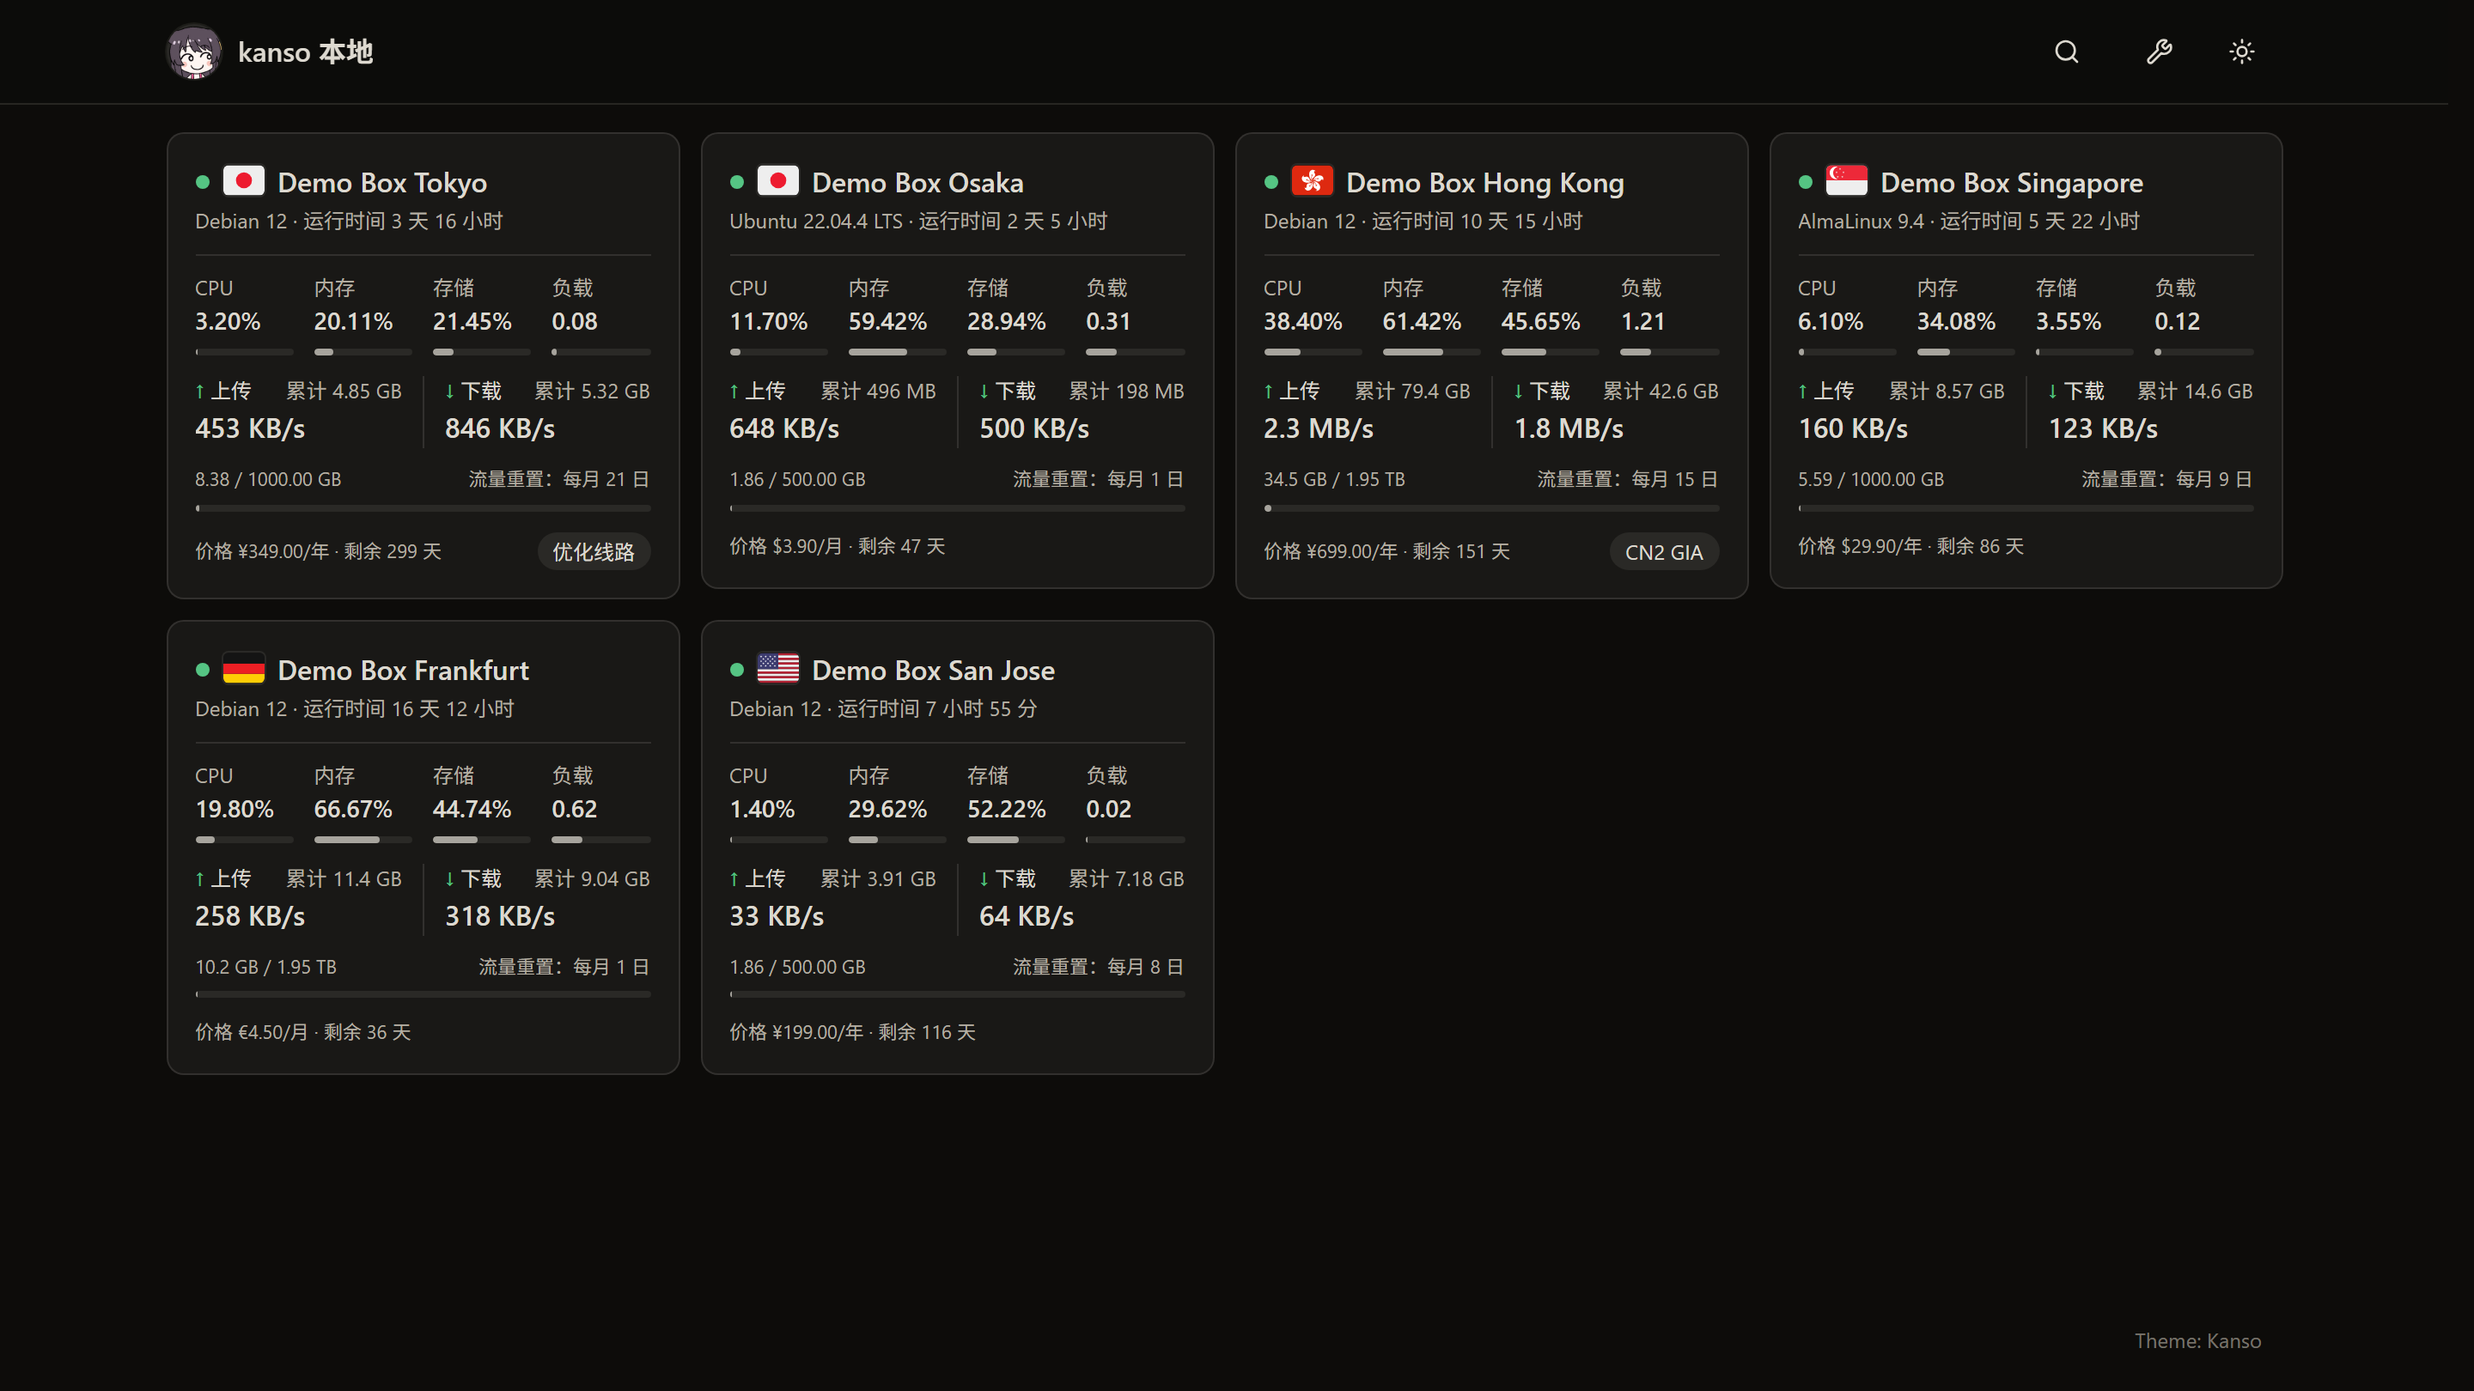
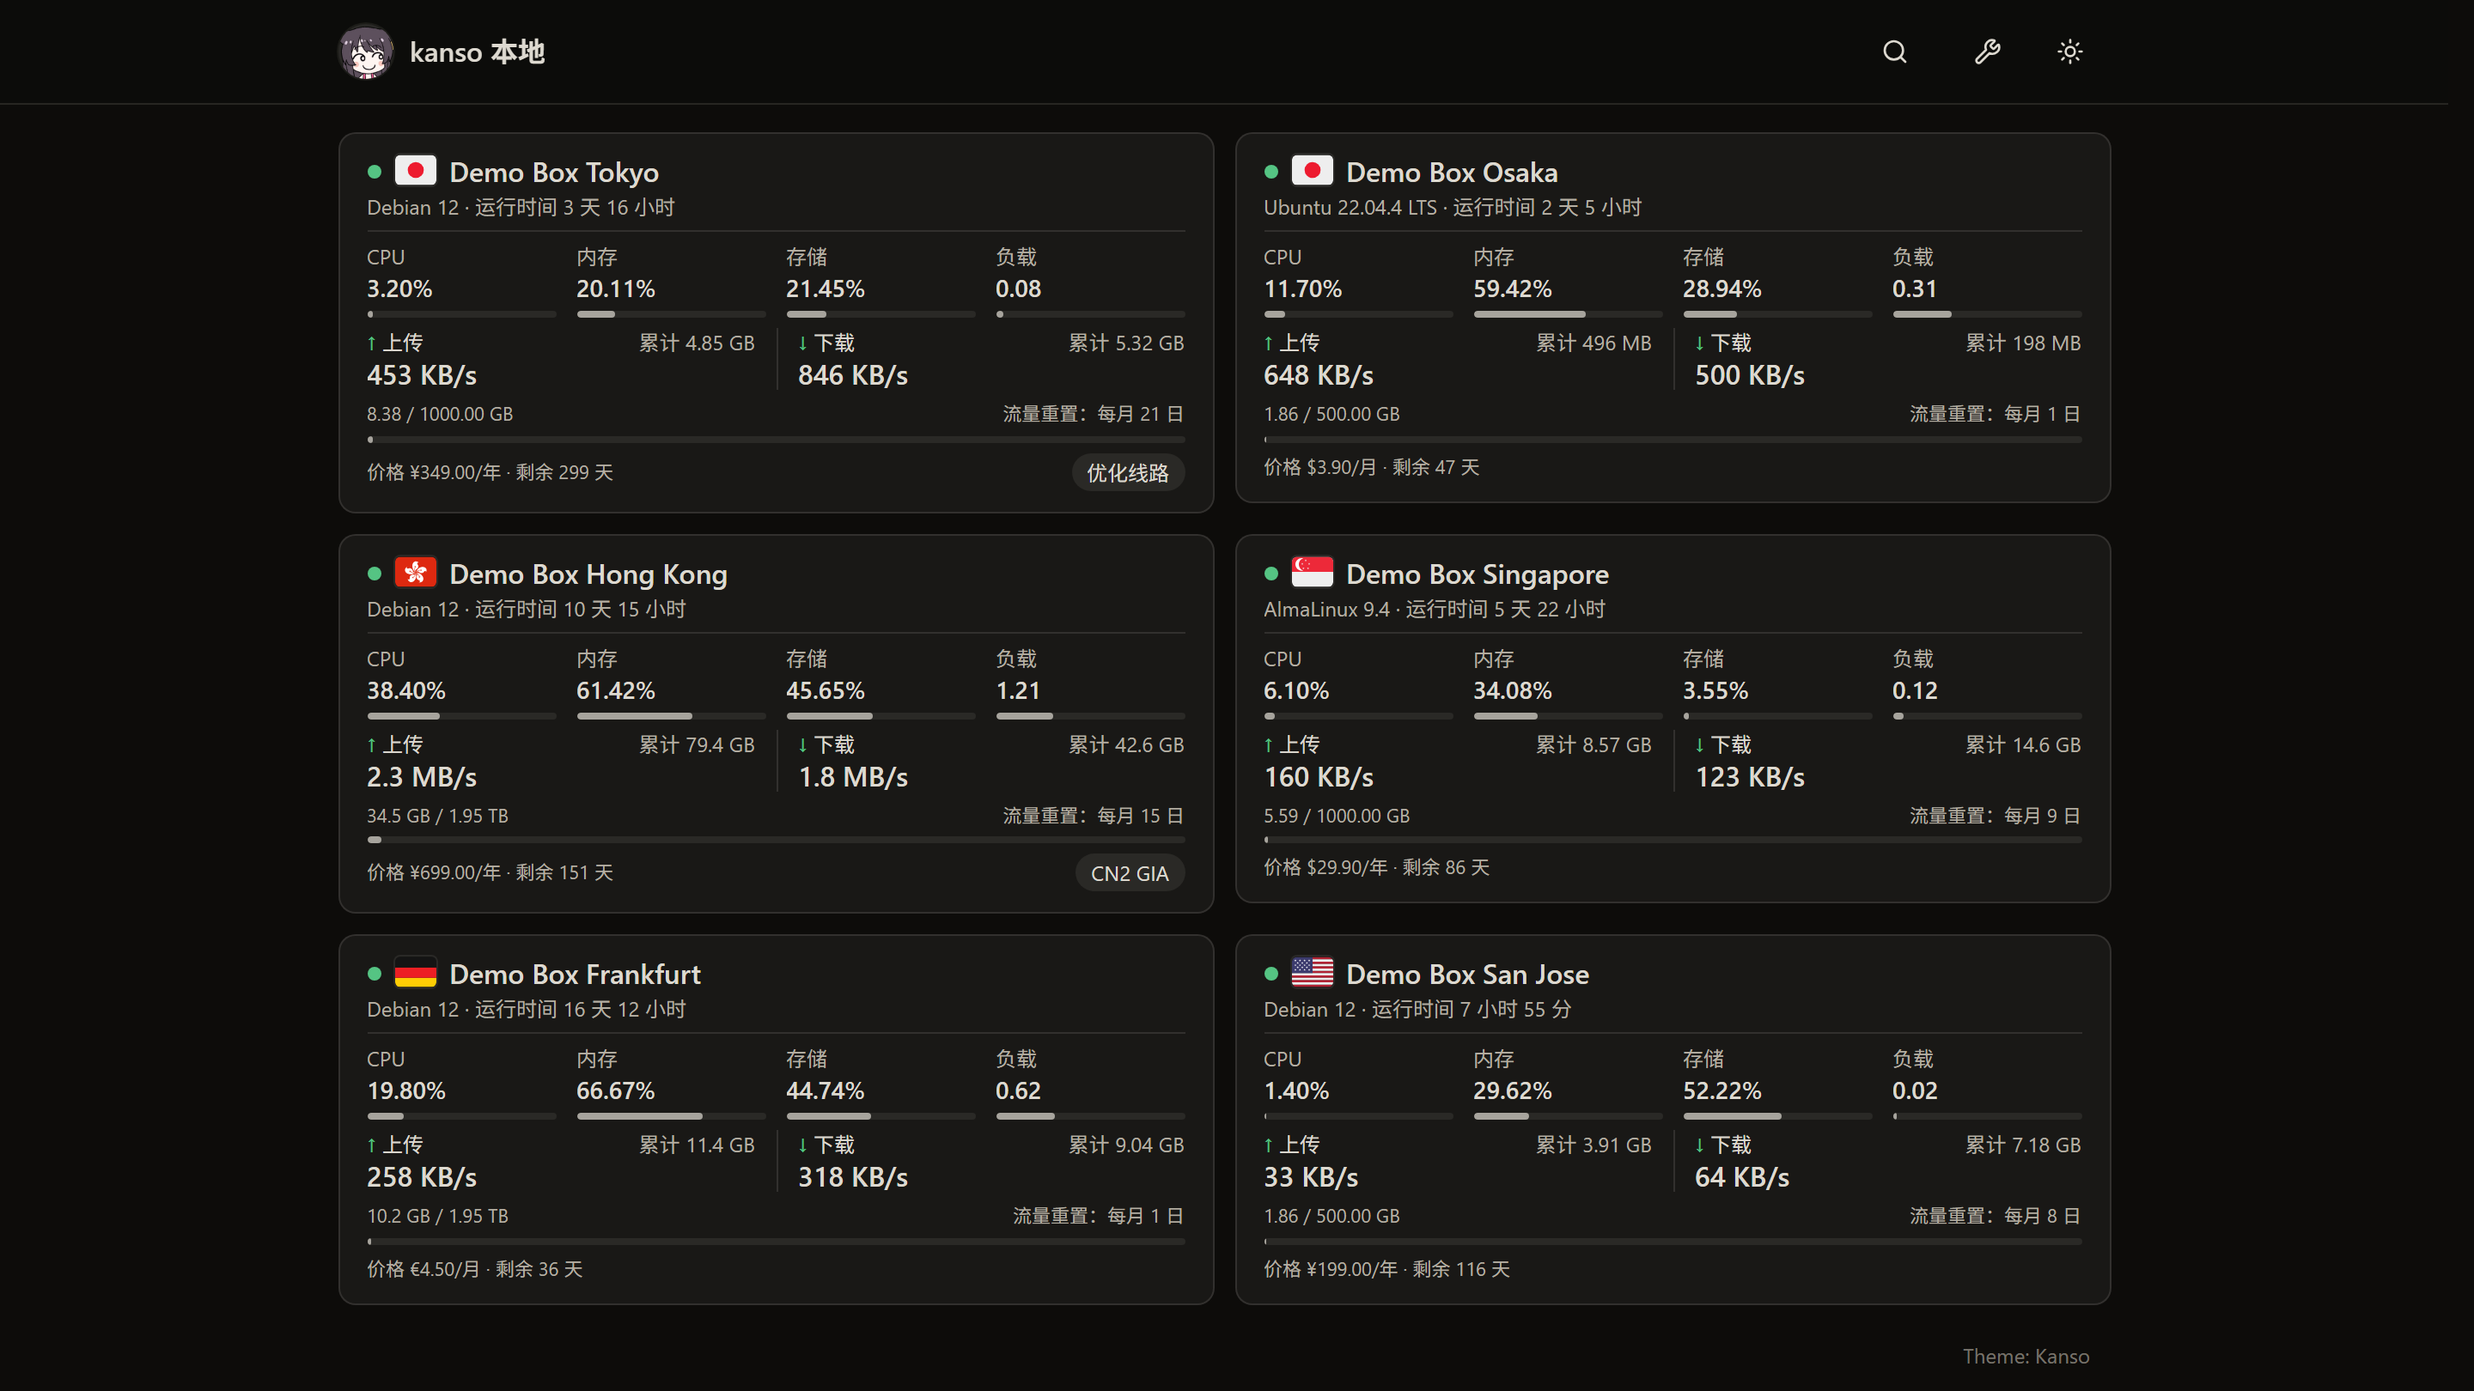
1.2.0：卡片长度与列数照参考站校准 —— 列表收成一行两张宽卡（768 起两列，容器 1280→1080），行距收到 6px 档、读数与速率行高 18px，卡片 510×216；护栏补两列/宽扁/窄屏单列三条断言（41/0），sweep 全绿；预览三件套重拍；注释与工具里的参考站只留泛称

diff --git a/src/components/NodeCard.tsx b/src/components/NodeCard.tsx
@@ -171,9 +171,9 @@ function trafficFoot(node: Node) {
 }
 
 /**
- * 列表里的那张卡片（本主题唯一的一档，2026-10-15 按站长给的参考站重排）。
+ * 列表里的那张卡片（本主题唯一的一档，2026-10-15 照站长给的参考站重排）。
  *
- * 从上到下六块：
+ * 从上到下六块（行距、字号按参考站校准过：整卡 ~510×214，那边是 508×209）：
  *   ① 身份行：状态点 + 旗子 + 名字（离线时右端一枚「已离线」徽章）；
  *   ② 一行灰字：系统 · 运行时间（四种处境的口径见 metaLine）；
  *   ③ 四个读数格：CPU / 内存 / 存储 / 负载（上面一条分隔线，见 Meter）；
@@ -218,7 +218,7 @@ export function NodeCard({ node, onOpen, onWarm, terms, selected }: {
       // data-selected 是「当前被键盘选中」的标记（护栏读它，不用去解析类名）。
       data-node-card={node.id}
       data-selected={selected ? "1" : undefined}
-      className={`min-w-0 cursor-pointer gap-0 p-4 transition-colors hover:border-foreground/25 ${selected ? "outline-2 outline-offset-1 outline-ring" : ""}`}
+      className={`min-w-0 cursor-pointer gap-0 px-4 py-3 transition-colors hover:border-foreground/25 ${selected ? "outline-2 outline-offset-1 outline-ring" : ""}`}
       role="button"
       tabIndex={0}
       onKeyDown={(e) => (e.key === "Enter" || e.key === " ") && (e.preventDefault(), onOpen())}
@@ -234,7 +234,7 @@ export function NodeCard({ node, onOpen, onWarm, terms, selected }: {
           className={"size-2 shrink-0 rounded-full " + (on ? "bg-ok" : "bg-down")}
         />
         <Country node={node} />
-        <h3 className="min-w-0 flex-1 truncate font-semibold"><TextHighlight text={node.name} terms={terms} /></h3>
+        <h3 className="min-w-0 flex-1 truncate font-semibold leading-5"><TextHighlight text={node.name} terms={terms} /></h3>
         {/* 徽章只给「接入过、现在掉线」的机器：从未接入的卡片下面那行说明已经说清了，
             连上但还没上报的更不该被盖上「已离线」。 */}
         {deployed(node) && !node.online && (
@@ -253,7 +253,7 @@ export function NodeCard({ node, onOpen, onWarm, terms, selected }: {
           {/* ③ 四个读数格：参考站的口径是「表名 / 读数 / 条」一列到底，上面一条分隔线把头部
               与读数区隔开。格子里只剩百分比：核数、已用 / 总量挪进各自的悬停说明（Meter 的
               title），整页详情里仍然写全。 */}
-          <div data-metrics="" className="mt-3 grid grid-cols-4 gap-x-3 border-t pt-2.5">
+          <div data-metrics="" className="mt-1.5 grid grid-cols-4 gap-x-3 border-t pt-1.5">
             <Meter
               label="CPU"
               title={`${node.cpu_cores} 核`}
@@ -285,32 +285,32 @@ export function NodeCard({ node, onOpen, onWarm, terms, selected }: {
               速率是这一块的重心（大字加粗）；累计总量弱化成灰字跟在标签那一行的右端。
               箭头保留 ↑ / ↓（可以整段复制），颜色用 --ok —— 卡片上唯一的彩色笔画。
               `data-net` 是给护栏认这一块用的锚点。 */}
-          <div data-net="row" className="mt-3 grid grid-cols-2">
+          <div data-net="row" className="mt-1.5 grid grid-cols-2">
             <div className="min-w-0 pr-3">
               <div className="flex items-baseline justify-between gap-2 text-xs">
                 <span className="shrink-0"><span className="text-ok">↑</span> 上传</span>
                 <span className="tnum min-w-0 truncate text-muted-foreground">累计 {bytes(node.total_tx)}</span>
               </div>
-              <div className="tnum mt-0.5 truncate text-base font-semibold">{m ? rate(m.net_tx) : "—"}</div>
+              <div className="tnum mt-0.5 truncate text-base font-semibold leading-[18px]">{m ? rate(m.net_tx) : "—"}</div>
             </div>
             <div className="min-w-0 border-l pl-3">
               <div className="flex items-baseline justify-between gap-2 text-xs">
                 <span className="shrink-0"><span className="text-ok">↓</span> 下载</span>
                 <span className="tnum min-w-0 truncate text-muted-foreground">累计 {bytes(node.total_rx)}</span>
               </div>
-              <div className="tnum mt-0.5 truncate text-base font-semibold">{m ? rate(m.net_rx) : "—"}</div>
+              <div className="tnum mt-0.5 truncate text-base font-semibold leading-[18px]">{m ? rate(m.net_rx) : "—"}</div>
             </div>
           </div>
 
           {/* ⑤ 总流量：数字行（左：已用 / 额度，右：重置日；没有额度就写 N/A，与参考站一致），
               再下面一条全宽进度条 —— 用量按套餐的计流量方式算（trafficFoot / monthUsage）。 */}
-          <div className="tnum mt-2.5 flex items-baseline justify-between gap-2 text-[11px] text-muted-foreground">
+          <div className="tnum mt-1.5 flex items-baseline justify-between gap-2 text-[11px] text-muted-foreground">
             <span className="min-w-0 truncate">{trafficFoot(node)}</span>
             <span className="shrink-0">
               流量重置：{node.traffic_limit > 0 ? `每月 ${node.traffic_reset_day} 日` : "N/A"}
             </span>
           </div>
-          <div className="mt-1.5 h-1 w-full overflow-hidden rounded-full bg-muted">
+          <div className="mt-1 h-1 w-full overflow-hidden rounded-full bg-muted">
             <div
               className="h-full rounded-full bg-foreground/70 transition-[width] duration-500"
               style={{ width: `${node.traffic_limit > 0 ? percent(monthUsage(node), node.traffic_limit) : 0}%` }}
@@ -320,7 +320,7 @@ export function NodeCard({ node, onOpen, onWarm, terms, selected }: {
           {/* ⑥ 底注：价格 / 到期在左、备注小卡片在右；两截都没有就整行不占位。
               `data-remark="card"` 是护栏的锚点（与整页详情那一块的 `data-remark-block` 区分开）。 */}
           {(note || chips.length > 0) && (
-            <div className="mt-3 flex min-w-0 items-center justify-between gap-2">
+            <div className="mt-1.5 flex min-w-0 items-center justify-between gap-2">
               <span className="tnum min-w-0 truncate text-[11px] leading-4 text-muted-foreground">{note}</span>
               {chips.length > 0 && (
                 <span data-remark="card" className="flex min-w-0 shrink items-center justify-end gap-1">

diff --git a/src/App.tsx b/src/App.tsx
@@ -464,7 +464,7 @@ export default function App() {
             「**站名优先展开、图标自己滑**」分：站名那格 max-w-[55%]（正常名字完整显示，
             只有长到离谱才轮到 truncate），搜索钉在它右边，剩下几枚图标装进一条能横向滑动的
             条带里 —— 与下面那行分组标签同一套做法：装不下就滑，不裁字、也不把整页撑宽。 */}
-        <div className="mx-auto flex max-w-[1280px] items-center gap-2 px-4 py-3 sm:gap-3 sm:px-6">
+        <div className="mx-auto flex max-w-[1080px] items-center gap-2 px-4 py-3 sm:gap-3 sm:px-6">
           {/* The site name is the way back to the list, so a node page needs
               no back button of its own. A 32px disc of the site's icon leads
               it — `/favicon.svg` is the one address that answers with the
@@ -530,7 +530,7 @@ export default function App() {
         )}
       </header>
 
-      <main className="mx-auto w-full max-w-[1280px] flex-1 space-y-5 px-4 py-4 sm:px-6">
+      <main className="mx-auto w-full max-w-[1080px] flex-1 space-y-5 px-4 py-4 sm:px-6">
         {error && <p className="text-sm text-destructive">{error}</p>}
 
         {open !== null ? (
@@ -549,10 +549,11 @@ export default function App() {
         ) : !nodes ? (
           // 还在等节点列表：骨架与卡片网格同一版式。
           // 高度跟着卡片来 —— 2026-10-15 卡片改成参考站那一套（身份行 + 系统行 + 四个读数格 +
-          // 上传下载 + 总流量 + 底注）之后是 266px（1440 视口四列，见 tools/verify_card_form）。
-          <div className="grid gap-3 sm:grid-cols-2 lg:grid-cols-3 xl:grid-cols-4">
+          // 上传下载 + 总流量 + 底注）、并把行距收到参考站那一档之后是 231px（1440 视口两列，
+          // 见 tools/verify_card_form）。
+          <div className="grid gap-3 md:grid-cols-2">
             {[0, 1, 2].map((i) => (
-              <Skeleton key={i} className="h-[266px]" />
+              <Skeleton key={i} className="h-[231px]" />
             ))}
           </div>
         ) : (
@@ -584,7 +585,7 @@ export default function App() {
           「Kanso」那截点开去本主题的源码仓库 —— 新标签页打开，别把访客从状态页带走
           （链接地址与 theme.json 的 url 是同一个，见上面的 REPO_URL）。
           样式见 index.css 的 .theme-credit。 */}
-      <footer className="mx-auto mt-2 w-full max-w-[1280px] border-t px-4 pb-5 pt-4 sm:mt-0 sm:border-t-0 sm:px-6 sm:pb-5 sm:pt-1">
+      <footer className="mx-auto mt-2 w-full max-w-[1080px] border-t px-4 pb-5 pt-4 sm:mt-0 sm:border-t-0 sm:px-6 sm:pb-5 sm:pt-1">
         <p className="theme-credit text-center sm:pr-3 sm:text-right">
           Theme:{" "}
           {REPO_URL ? (
@@ -683,7 +684,10 @@ function NodeList({ nodes, total, onOpen, onWarm, terms, cursorId }: {
       {total === 0 ? (
         <p className="py-16 text-center text-sm text-muted-foreground">还没有节点</p>
       ) : (
-        <div className="grid items-start gap-3 sm:grid-cols-2 lg:grid-cols-3 xl:grid-cols-4">
+        // ★ 一行两张宽卡（2026-10-15 照站长给的参考站定的：那边 768 起就是两列、卡片 508×209，
+        //   整页容器约 1040）。本站容器同步收到 1080 → 两列即每张 510 宽，和参考站一样。
+        //   原先的 2/3/4 列 + 1280 容器让卡片窄而高（299×266），形态差得远。
+        <div className="grid items-start gap-3 md:grid-cols-2">
           {list.map((n) => (
             <NodeCard key={n.id} node={n} onOpen={() => onOpen(n.id)} onWarm={onWarm} terms={terms} selected={n.id === cursorId} />
           ))}

diff --git a/src/components/Meter.tsx b/src/components/Meter.tsx
@@ -32,8 +32,8 @@ export function Meter({ label, value, pct, title }: Props) {
   return (
     <div className="min-w-0" title={title}>
       <div className="truncate text-xs text-muted-foreground">{label}</div>
-      <div className="tnum mt-0.5 truncate text-sm font-semibold">{value}</div>
-      <div className="mt-1.5 h-1 w-full overflow-hidden rounded-full bg-muted">
+      <div className="tnum mt-0.5 truncate text-sm font-semibold leading-[18px]">{value}</div>
+      <div className="mt-1 h-1 w-full overflow-hidden rounded-full bg-muted">
         <div className="h-full rounded-full bg-foreground/70 transition-[width] duration-500" style={{ width: `${filled}%` }} />
       </div>
     </div>

diff --git a/README.md b/README.md
@@ -1,6 +1,6 @@
 # kanso
 
-![kanso](preview.png?v=2)
+![kanso](preview.png?v=3)
 
 极简探针（[Monitor](https://github.com/monitor-probe/monitor)）的第三方主题，源码基于上游默认主题
 `monitor-theme-default` v1.1.0 改造。纯静态前端，只读 hub 的公开接口，
@@ -15,18 +15,18 @@
 
 ## 预览
 
-![预览](preview.png?v=2)
+![预览](preview.png?v=3)
 
-**列表页**：搜索框（名称、地区、系统三处都能搜）、离线自动沉底，每台一张卡片 ——
-状态点 + 旗子领着一行名字，下面依次是 `系统 · 运行时间`、四个读数格（CPU / 内存 / 存储 / 负载，
-各带一条进度）、上传 / 下载两栏（累计总量与实时速率）、总流量（已用 / 额度 + 重置日，一条全宽带），
-底注是价格 / 到期与最多三枚备注小卡片。卡面不含延迟走势——那在整页详情里看（点卡片进去）。
+**列表页**：搜索框（名称、地区、系统三处都能搜）、离线自动沉底，**一行两张宽卡**（768 以下单列），
+每台一张卡片 —— 状态点 + 旗子领着一行名字，下面依次是 `系统 · 运行时间`、四个读数格（CPU / 内存 /
+存储 / 负载，各带一条进度）、上传 / 下载两栏（累计总量与实时速率）、总流量（已用 / 额度 + 重置日，
+一条全宽带），底注是价格 / 到期与最多三枚备注小卡片。卡面不含延迟走势——那在整页详情里看（点卡片进去）。
 
 **整页详情**：延迟走势图（可切量程、削峰）、资源曲线、读数盒、备注小卡片、明暗跟随。
 
 | 暗色 | 手机 |
 |:---:|:---:|
-| ![暗色](preview-dark.png?v=2) | ![手机](preview-mobile.png?v=2) |
+| ![暗色](preview-dark.png?v=3) | ![手机](preview-mobile.png?v=3) |
 
 ## 与母本的关系
 
